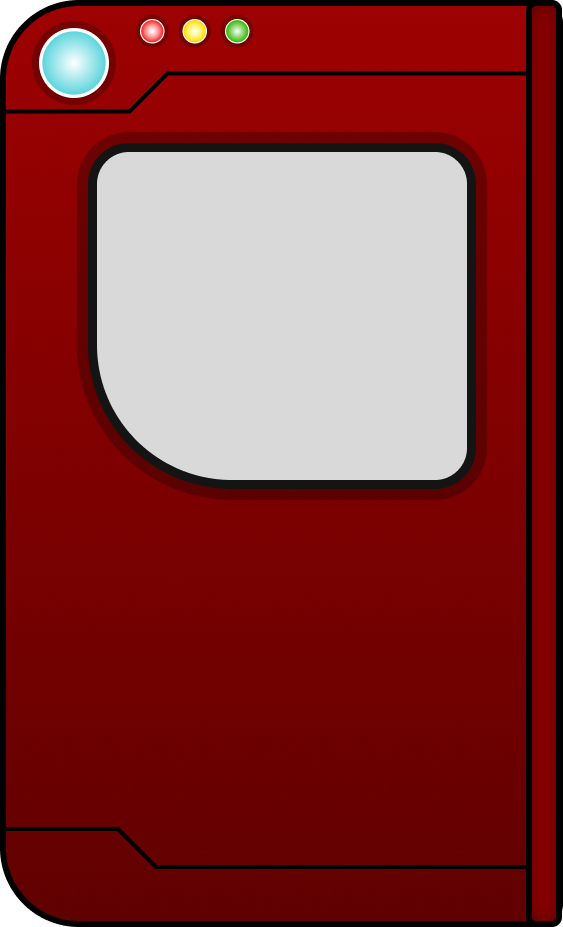
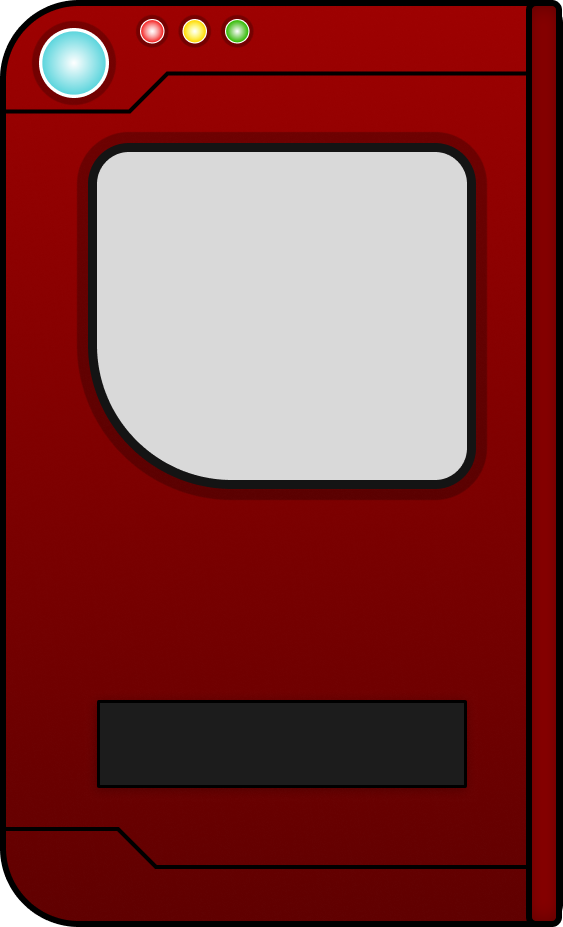
CSS/Index update
- changed css to change mobile and desktop design
- changed html to get rid of arrows
- changed mobile design

Changed region(s): [[0.151, 0.7551, 0.8455, 0.8759]]

diff --git a/css/pokedex.css b/css/pokedex.css
@@ -158,7 +158,7 @@ form {
         left: 30%;
     }
 
-    .arrowUp {
+    /* .arrowUp {
         bottom: 31%;
         left: 45%;
     }
@@ -170,7 +170,7 @@ form {
 
     .arrowDown, .arrowUp {
         height: 50px;
-    }
+    } */
 }
 
 /* ----------- width 500px to 700px-------------- */
@@ -195,25 +195,31 @@ form {
 
     #pokeImgContainer {
         top: 18%;
-        left: 34%;
+        left: 25%;
         border: none;
     }
 
     #pokemonImg {
-        width: 200px;
-        height: 200px;
+        width: 300px;
+        height: 300px;
     }
 
     .pokemonInfo {
-        top: 40%;
-        left: 32%;
+        top: 74%;
+        left: 25%;
         font-size: 1.1rem;
-        color: black;
     }
 
     form {
-        left: 20%;
-        bottom: 38%;
+        display: flex;
+        flex-direction: column;
+        bottom: 31%;
+        left: 27%;
+    }
+
+    #textField, #submit {
+        width: 300px;
+        margin: 5px 0px;
     }
 
     .arrowUp {
@@ -246,28 +252,33 @@ form {
         top: 0;
         padding: 30px;
     }
-
     #pokeImgContainer {
         top: 18%;
-        left: 39%;
+        left: 31%;
         border: none;
     }
 
     #pokemonImg {
-        width: 200px;
-        height: 200px;
+        width: 300px;
+        height: 300px;
     }
 
     .pokemonInfo {
-        top: 40%;
-        left: 38%;
+        top: 74%;
+        left: 32%;
         font-size: 1.1rem;
-        color: black;
     }
 
     form {
-        bottom: 38%;
-        left: 27%;
+        display: flex;
+        flex-direction: column;
+        bottom: 33%;
+        left: 32%;
+    }
+
+    #textField, #submit {
+        width: 300px;
+        margin: 5px 0px;
     }
 
     .arrowUp {
@@ -303,27 +314,34 @@ form {
 
     #pokeImgContainer {
         top: 18%;
-        left: 41%;
+        left: 34%;
         border: none;
     }
 
     #pokemonImg {
-        width: 200px;
-        height: 200px;
+        width: 300px;
+        height: 300px;
     }
+
     .pokemonInfo {
-        top: 39%;
-        left: 40%;
+        top: 74%;
+        left: 35%;
         font-size: 1.1rem;
-        color: black;
     }
 
     form {
-        bottom: 38%;
-        left: 30%;
+        display: flex;
+        flex-direction: column;
+        bottom: 33%;
+        left: 35%;
     }
 
-    .arrowUp {
+    #textField, #submit {
+        width: 300px;
+        margin: 5px 0px;
+    }
+
+    /* .arrowUp {
         bottom: 27.9%;
         left: 45%;
     }
@@ -331,7 +349,7 @@ form {
     .arrowDown {
         bottom: 16%;
         left: 45%;
-    }
+    } */
 }
 
 /* ----------- width 1001px to 1200px-------------- */

diff --git a/index.html b/index.html
@@ -23,10 +23,10 @@
       <img class="pokedex-large" src="./img/Pokedex-img.png" alt="A custom made pokedex large" />
       <img class="pokedex-small" src="./img/Pokedex-mobile.png" alt="A custom made pokedex small" />
 
-      <div id="arrows">
+      <!-- <div id="arrows">
         <img class="arrowUp" src="./img/ArrowUp.png" alt="Custom arrow png for pokedex" />
         <img class="arrowDown" src="./img/ArrowDown.png" alt="Custom arrow png for pokedex" />
-      </div>
+      </div> -->
     </div>
     <form>
       <input
